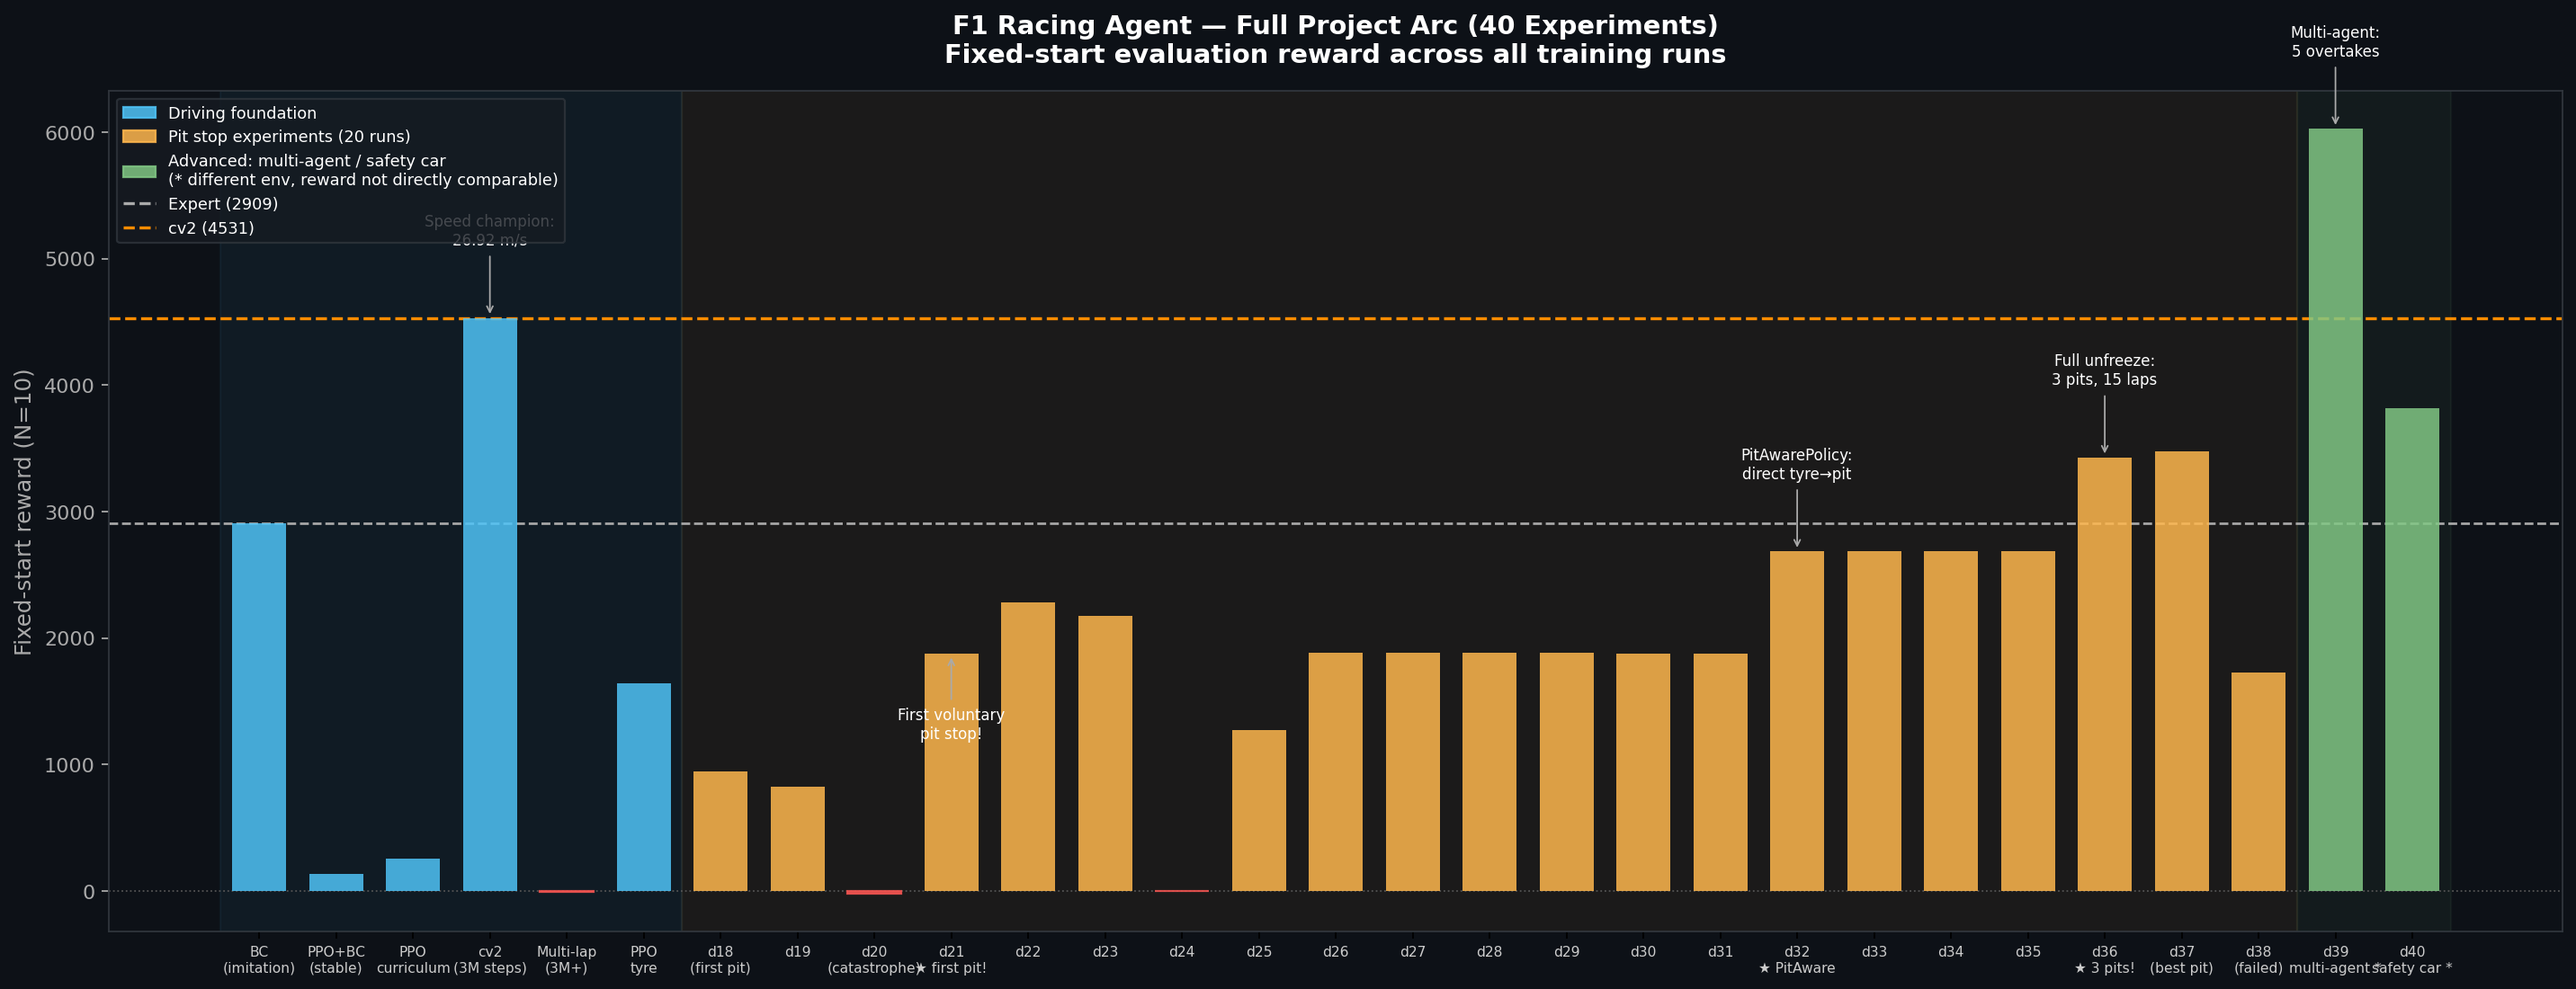
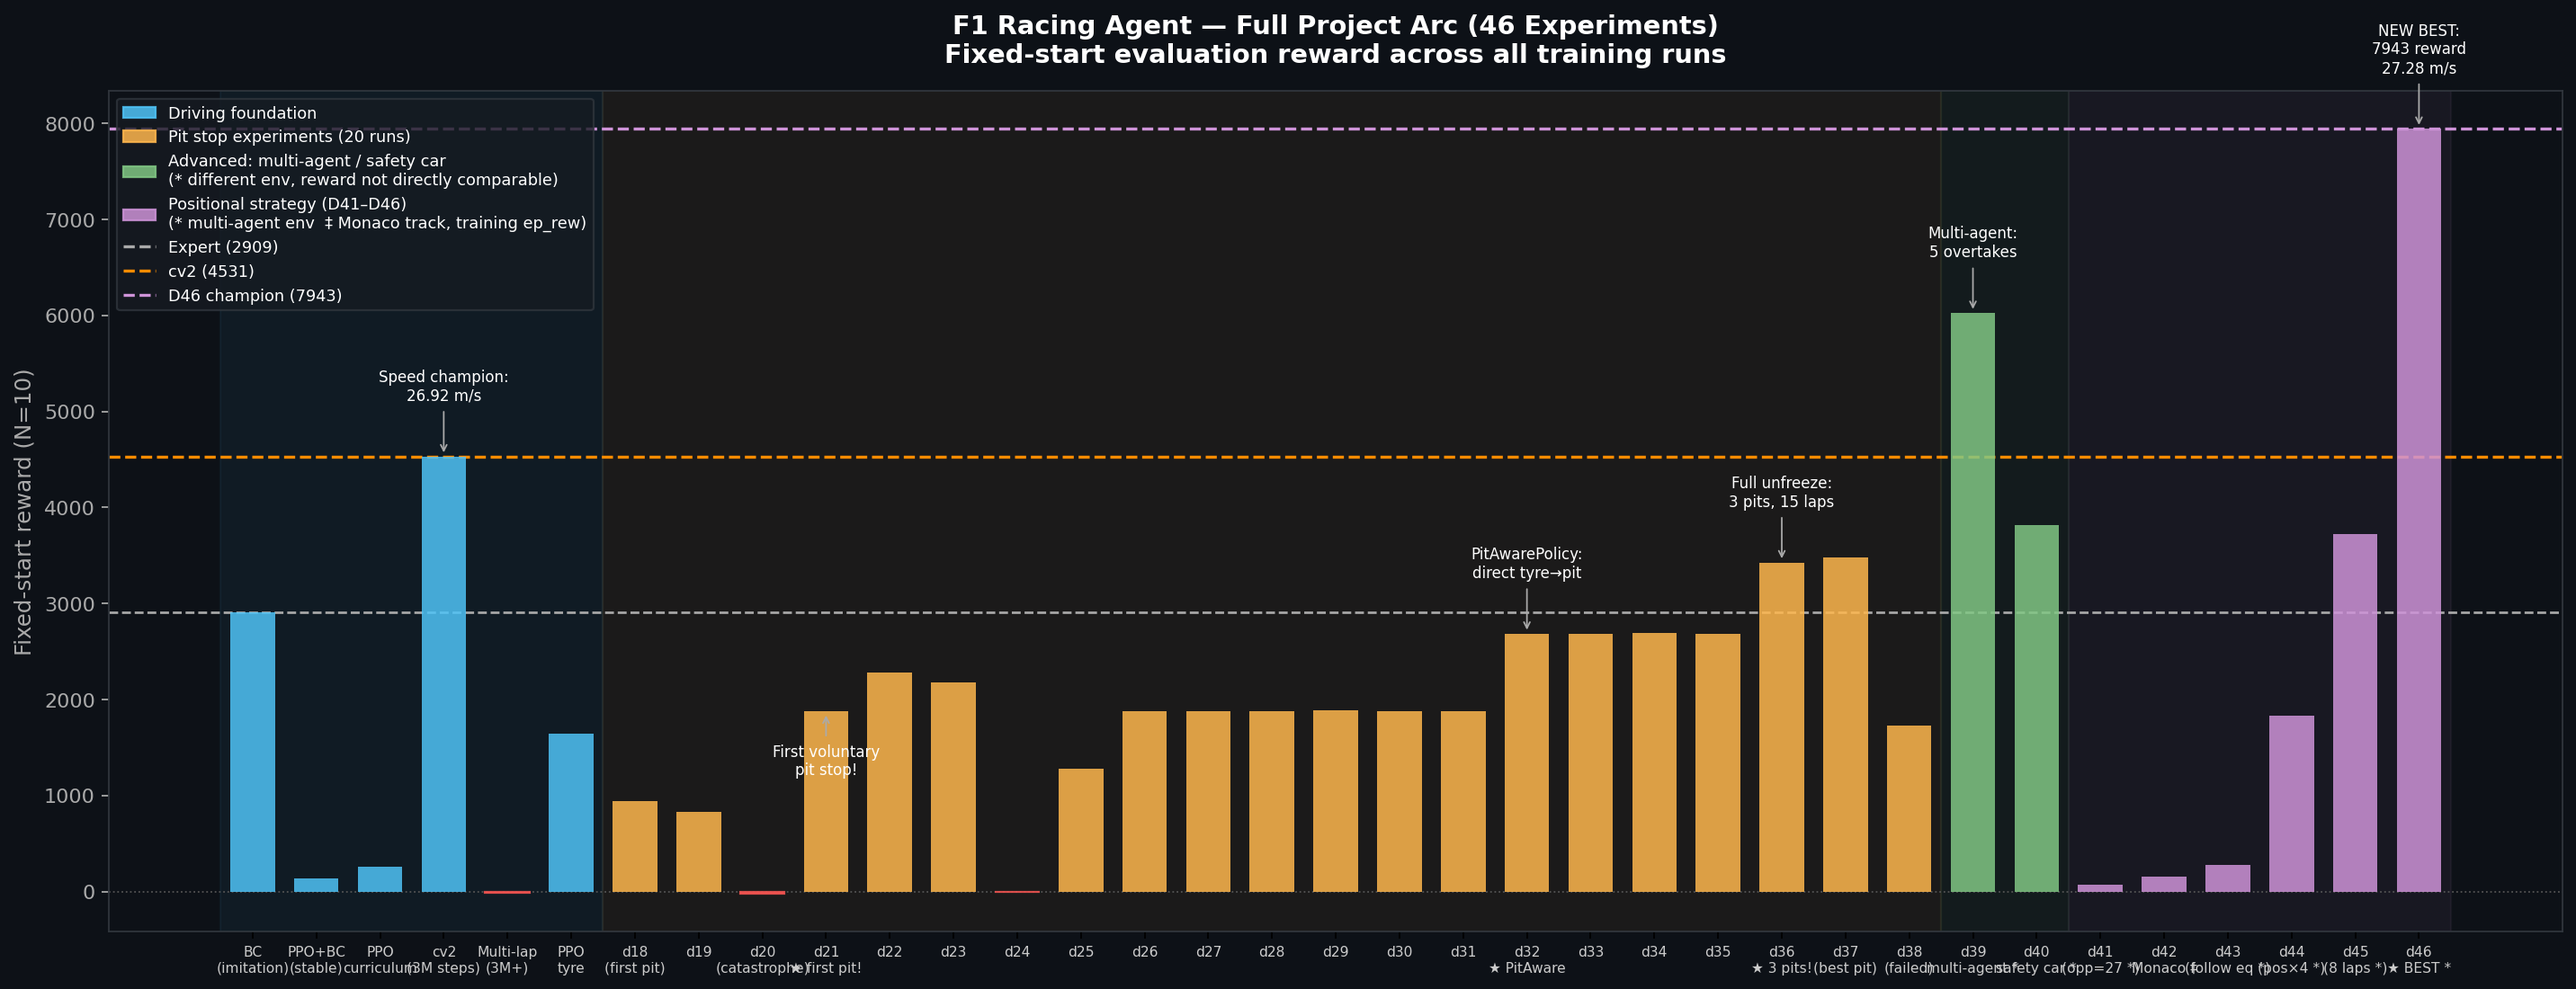
viz: update plots and GIF for D46 project completion
Progress dashboard (46 experiments):
  - Add D41–D46 as purple "positional strategy" phase
  - Add D46 champion reference line (7943)
  - Annotate D46 as new project best
  - Update title to 46 experiments

Trajectory GIF:
  - Swap D39 → D46 (new multi-agent champion)
  - D46 uses opp=25 m/s, position_bonus=2.0

Tyre trace (D37): regenerated, no changes.

diff --git a/viz_trajectory_gif.py b/viz_trajectory_gif.py
@@ -5,7 +5,7 @@ Side-by-side Trajectory GIF — 4 policies racing on the same oval.
   Top-left:     Expert (rule-based, 17 m/s)
   Top-right:    cv2 — PPO speed champion (26.9 m/s)
   Bottom-left:  D37 — best pit policy (23.7 m/s, 3 pits shown as flash)
-  Bottom-right: D39 — multi-agent (ego + ExpertDriver opponent)
+  Bottom-right: D46 — multi-agent champion (ego + opponent, 27.28 m/s)
 
 Each panel shows:
   - Dashed oval track
@@ -14,7 +14,7 @@ Each panel shows:
   - Live speed readout
 
 D37: pit events flash the panel background red momentarily.
-D39: two cars — ego (blue) and opponent (orange).
+D46: two cars — ego (purple) and opponent (orange).
 
 Saves to: plots/trajectory_comparison.gif
 """
@@ -110,36 +110,36 @@ for i, f in enumerate(traj_d37):
             pit_frames_d37.add(j)
         prev_pit = f["pit_count"]
 
-# 4. D39 — multi-agent (ego + opponent)
-print("[Viz] D39...")
-model_d39 = PPO.load(str(project_root / "rl" / "ppo_multi_agent_d39.zip"), device=device)
+# 4. D46 — multi-agent champion (ego + opponent, opp=25 m/s, pos_bonus=2.0)
+print("[Viz] D46...")
+model_d46 = PPO.load(str(project_root / "rl" / "ppo_multi_agent_d46.zip"), device=device)
 from env.f1_multi_env import F1MultiAgentEnv
-env_d39 = F1MultiAgentEnv()
+env_d46 = F1MultiAgentEnv(opp_max_speed=25.0, position_bonus=2.0)
 
-obs_d39, _ = env_d39.reset(options={"fixed_start": True})
-traj_d39 = []
-laps_d39 = 0
+obs_d46, _ = env_d46.reset(options={"fixed_start": True})
+traj_d46 = []
+laps_d46 = 0
 for _ in range(30_000):
-    action, _ = model_d39.predict(obs_d39, deterministic=True)
-    obs_d39, _, terminated, truncated, info_d39 = env_d39.step(action)
-    traj_d39.append({
-        "x": env_d39.car.x, "y": env_d39.car.y,
-        "speed": info_d39["speed"],
-        "opp_x": env_d39.opp_car.x, "opp_y": env_d39.opp_car.y,
-        "opp_speed": info_d39.get("opp_speed", 22.0),
+    action, _ = model_d46.predict(obs_d46, deterministic=True)
+    obs_d46, _, terminated, truncated, info_d46 = env_d46.step(action)
+    traj_d46.append({
+        "x": env_d46.car.x, "y": env_d46.car.y,
+        "speed": info_d46["speed"],
+        "opp_x": env_d46.opp_car.x, "opp_y": env_d46.opp_car.y,
+        "opp_speed": info_d46.get("opp_speed", 25.0),
     })
-    if info_d39["laps_completed"] > laps_d39:
-        laps_d39 = info_d39["laps_completed"]
-    if laps_d39 >= N_LAPS or terminated:
+    if info_d46["laps_completed"] > laps_d46:
+        laps_d46 = info_d46["laps_completed"]
+    if laps_d46 >= N_LAPS or terminated:
         break
-print(f"  → {len(traj_d39)} steps, {laps_d39} laps")
+print(f"  → {len(traj_d46)} steps, {laps_d46} laps")
 
 # ── Cap all trajectories to the same length ───────────────────────────────────
-max_len = min(len(traj_expert), len(traj_cv2), len(traj_d37), len(traj_d39))
+max_len = min(len(traj_expert), len(traj_cv2), len(traj_d37), len(traj_d46))
 traj_expert = traj_expert[:max_len]
 traj_cv2    = traj_cv2[:max_len]
 traj_d37    = traj_d37[:max_len]
-traj_d39    = traj_d39[:max_len]
+traj_d46    = traj_d46[:max_len]
 
 frame_indices = list(range(0, max_len, FRAME_SKIP))
 print(f"[Viz] Animating {len(frame_indices)} frames ({max_len} steps at 1:{FRAME_SKIP})...")
@@ -153,7 +153,7 @@ PANEL_CONFIGS = [
     {"title": "Expert (rule-based)",      "color": "#66BB6A", "traj": traj_expert},
     {"title": "cv2 — Speed Champion",     "color": "#42A5F5", "traj": traj_cv2},
     {"title": "D37 — Pit Strategy",       "color": "#FF7043", "traj": traj_d37},
-    {"title": "D39 — Multi-Agent",        "color": "#AB47BC", "traj": traj_d39},
+    {"title": "D46 — Multi-Agent Champion", "color": "#AB47BC", "traj": traj_d46},
 ]
 
 axs = [axes[0][0], axes[0][1], axes[1][0], axes[1][1]]
@@ -198,14 +198,14 @@ for i, (ax, cfg) in enumerate(zip(axs, PANEL_CONFIGS)):
     opp_dots.append(None)
     tyre_texts.append(None)
 
-# D39: add opponent elements
-opp_trail_d39, = axs[3].plot([], [], "-", color="#FF8F00", linewidth=0.8, alpha=0.4)
-opp_dot_d39,   = axs[3].plot([], [], "o", color="#FF8F00", markersize=5, zorder=4)
-opp_trails[3]  = opp_trail_d39
-opp_dots[3]    = opp_dot_d39
+# D46: add opponent elements
+opp_trail_d46, = axs[3].plot([], [], "-", color="#FF8F00", linewidth=0.8, alpha=0.4)
+opp_dot_d46,   = axs[3].plot([], [], "o", color="#FF8F00", markersize=5, zorder=4)
+opp_trails[3]  = opp_trail_d46
+opp_dots[3]    = opp_dot_d46
 axs[3].plot([], [], "-o", color=PANEL_CONFIGS[3]["color"], markersize=4,
             label="Ego (PPO)")
-axs[3].plot([], [], "-o", color="#FF8F00", markersize=4, label="Opponent")
+axs[3].plot([], [], "-o", color="#FF8F00", markersize=4, label="Opponent (25 m/s)")
 axs[3].legend(loc="lower right", fontsize=7, facecolor="#161B22",
               edgecolor="#30363D", labelcolor="white")
 
@@ -217,7 +217,7 @@ tyre_texts[2] = axs[2].text(
 
 def update(frame_idx):
     artists = []
-    trajs = [traj_expert, traj_cv2, traj_d37, traj_d39]
+    trajs = [traj_expert, traj_cv2, traj_d37, traj_d46]
 
     for i, (trail, dot, stext, cfg, traj) in enumerate(
             zip(trails, dots, speed_texts, PANEL_CONFIGS, trajs)):

diff --git a/viz_progress_dashboard.py b/viz_progress_dashboard.py
@@ -1,9 +1,10 @@
 """
 Progress Dashboard — full project arc in one figure.
 
-Shows fixed-start reward for every experiment (d10–d40), annotated with
-key breakthroughs. Horizontal reference lines for Expert and cv2 baselines.
-Color-coded by phase: single-agent driving, pit strategy experiments, advanced.
+Shows fixed-start reward for every experiment (d10–d46), annotated with
+key breakthroughs. Horizontal reference lines for Expert, cv2, and D46 baselines.
+Color-coded by phase: single-agent driving, pit strategy experiments, advanced,
+positional strategy.
 
 Saves to: plots/progress_dashboard.png
 """
@@ -54,21 +55,32 @@ EXPERIMENTS = [
     # --- Advanced (d39–d40) ---
     ("d39\nmulti-agent *",   39,  6025, 2),
     ("d40\nsafety car *",    40,  3820, 2),
+
+    # --- Positional strategy (d41–d46) ---
+    ("d41\n(opp=27 *)",      41,    69, 3),
+    ("d42\nMonaco ‡",        42,   160, 3),   # Monaco training ep_rew (0 laps)
+    ("d43\n(follow eq *)",   43,   275, 3),
+    ("d44\n(pos×4 *)",       44,  1834, 3),
+    ("d45\n(8 laps *)",      45,  3727, 3),
+    ("d46\n★ BEST *",        46,  7943, 3),
 ]
 
 PHASE_COLORS = {
     0: "#4FC3F7",   # light blue — driving foundation
     1: "#FFB74D",   # orange — pit strategy
-    2: "#81C784",   # green — advanced
+    2: "#81C784",   # green — advanced (multi-agent / safety car)
+    3: "#CE93D8",   # purple — positional strategy (d41–d46)
 }
 PHASE_LABELS = {
     0: "Driving foundation",
     1: "Pit stop experiments (20 runs)",
     2: "Advanced: multi-agent / safety car\n(* different env, reward not directly comparable)",
+    3: "Positional strategy (D41–D46)\n(* multi-agent env  ‡ Monaco track, training ep_rew)",
 }
 
 EXPERT_REWARD = 2909
 CV2_REWARD    = 4531
+D46_REWARD    = 7943
 
 # ── Build figure ──────────────────────────────────────────────────────────────
 fig, ax = plt.subplots(figsize=(18, 7), facecolor="#0D1117")
@@ -94,6 +106,8 @@ ax.axhline(EXPERT_REWARD, color="#AAAAAA", linestyle="--", linewidth=1.2, zorder
            label=f"Expert baseline ({EXPERT_REWARD})")
 ax.axhline(CV2_REWARD, color="#FF8C00", linestyle="--", linewidth=1.5, zorder=2,
            label=f"cv2 speed champion ({CV2_REWARD})")
+ax.axhline(D46_REWARD, color="#CE93D8", linestyle="--", linewidth=1.5, zorder=2,
+           label=f"D46 champion ({D46_REWARD})")
 ax.axhline(0, color="#555555", linestyle=":", linewidth=0.8, zorder=2)
 
 # Annotations for key breakthroughs
@@ -103,6 +117,7 @@ ANNOTATIONS = {
     "d36\n★ 3 pits!":      ("Full unfreeze:\n3 pits, 15 laps", +150),
     "cv2\n(3M steps)":     ("Speed champion:\n26.92 m/s", +150),
     "d39\nmulti-agent *":  ("Multi-agent:\n5 overtakes", +150),
+    "d46\n★ BEST *":       ("NEW BEST:\n7943 reward\n27.28 m/s", +150),
 }
 for i, label in enumerate(labels):
     if label in ANNOTATIONS:
@@ -124,7 +139,7 @@ ax.tick_params(axis="y", colors="#AAAAAA")
 ax.spines[:].set_color("#30363D")
 
 ax.set_title(
-    "F1 Racing Agent — Full Project Arc (40 Experiments)\n"
+    "F1 Racing Agent — Full Project Arc (46 Experiments)\n"
     "Fixed-start evaluation reward across all training runs",
     color="white", fontsize=13, fontweight="bold", pad=14,
 )
@@ -154,6 +169,7 @@ legend_patches = [
 legend_patches += [
     plt.Line2D([0], [0], color="#AAAAAA", linestyle="--", label=f"Expert ({EXPERT_REWARD})"),
     plt.Line2D([0], [0], color="#FF8C00", linestyle="--", label=f"cv2 ({CV2_REWARD})"),
+    plt.Line2D([0], [0], color="#CE93D8", linestyle="--", label=f"D46 champion ({D46_REWARD})"),
 ]
 ax.legend(handles=legend_patches, loc="upper left", fontsize=8,
           facecolor="#161B22", edgecolor="#30363D", labelcolor="white")
